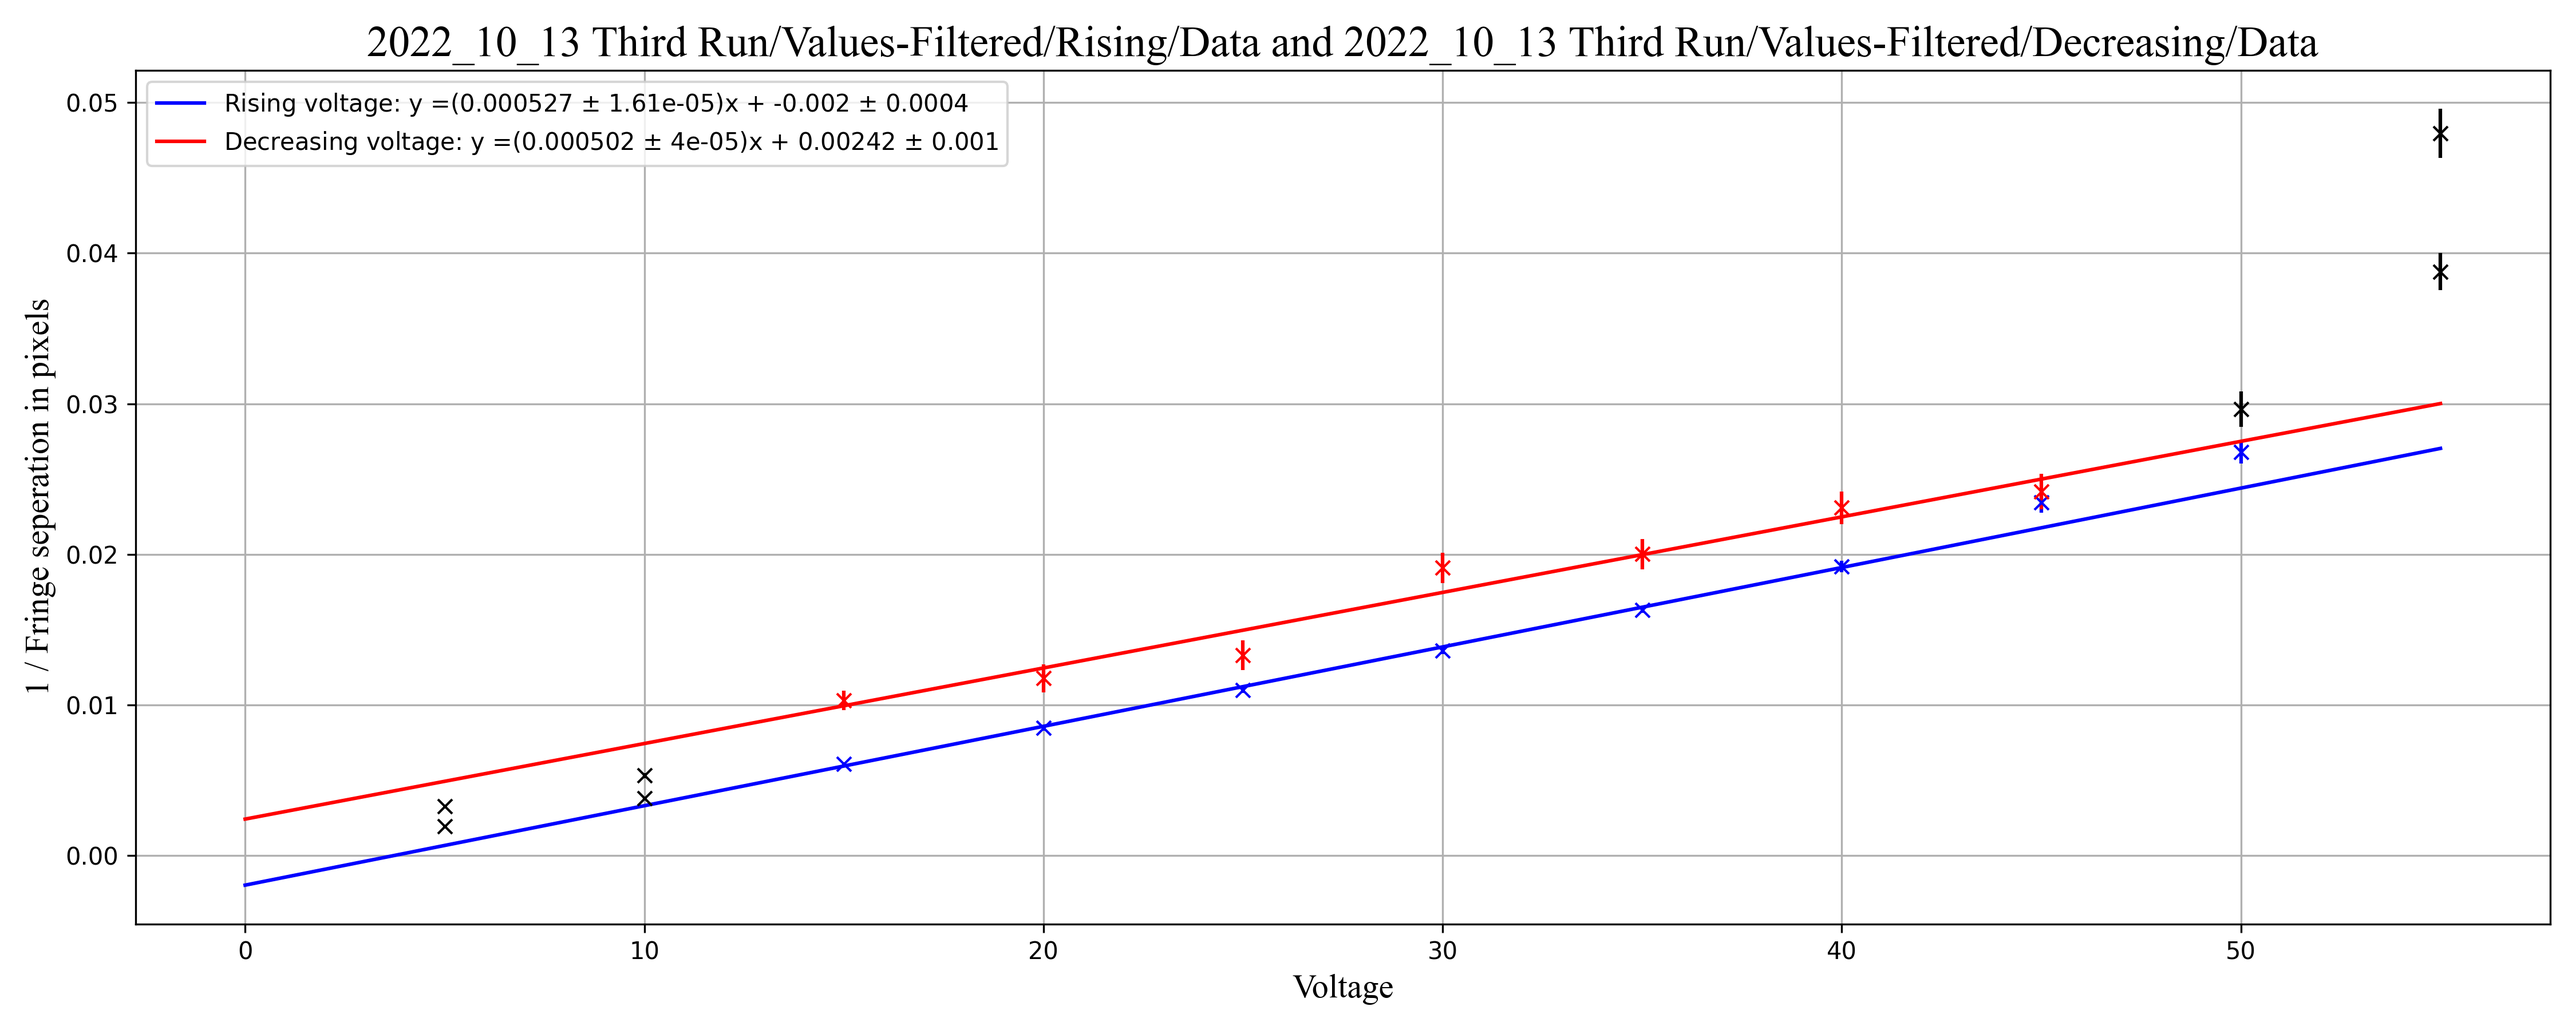
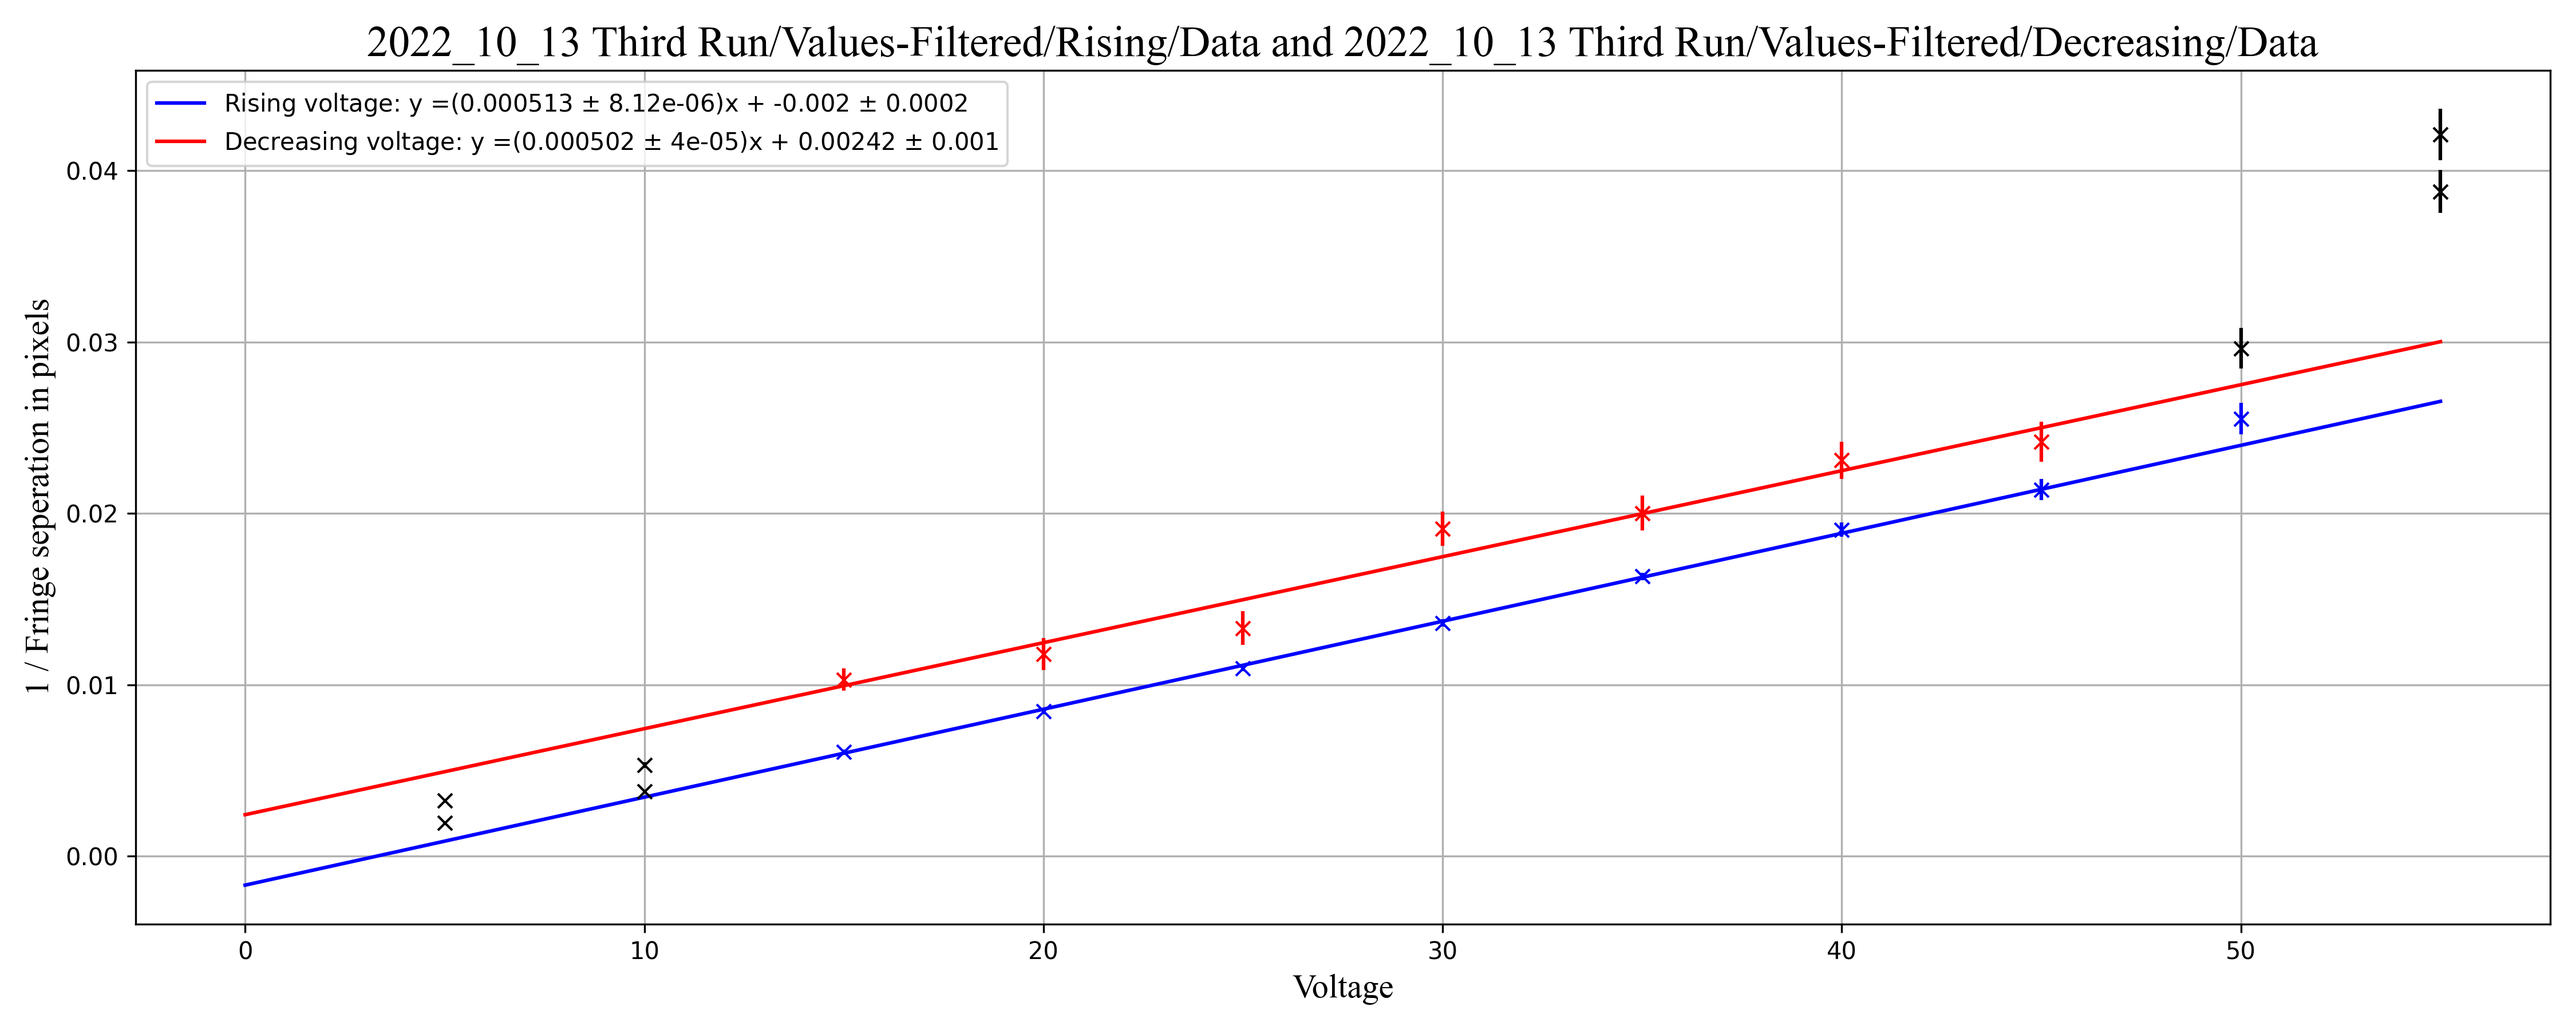
still miscalulating peak averages since finding new peaks

diff --git a/TVHolography.py b/TVHolography.py
@@ -11,7 +11,7 @@ import copy
 
 from Parameters import SAVGOL_FILTER_PARAMETERS_1,\
         SAVGOL_FILTER_PARAMETERS_2, PEAK_PROMINENCE
-from Functions import read_data, find_peaks,\
+from Functions import extract_index, read_data, find_peaks,\
         filter_peaks, find_linear_parameters,\
         fit_gaussian, optimize_savgol, red_chi_square
 
@@ -22,15 +22,6 @@ SAVE_FOLDER_2 = "2022_10_13 Third Run/Values-Filtered/Decreasing/Results/"
 SAVE_FOLDER_AVERAGES = "2022_10_13 Third Run/Values-Filtered/Comparison/"
 X_VARIABLE = "Voltage"
 Y_VARIABLE = 'Grey Value (Intensity)'
-
-def Extract(lst, i):
-    result = []
-    try:
-        for item in lst:
-            result.append(item[i])
-        return result
-    except IndexError:
-        return None
 
 def draw_plot(title, data, savgol_parameter, filename,
               save_folder, peak_prominence, direction):
@@ -49,7 +40,8 @@ def draw_plot(title, data, savgol_parameter, filename,
     axs.plot(data[:, 0], data[:, 1], 'k')
     
 
-    best_savgol_parameters = optimize_savgol(data[1000:2750], savgol_parameter, peak_prominence, axs)
+    best_savgol_parameters = optimize_savgol(data[1000:2750], savgol_parameter,
+                                             peak_prominence, axs)
     print(best_savgol_parameters)
 
     total_x_peak_data = []
@@ -73,18 +65,44 @@ def draw_plot(title, data, savgol_parameter, filename,
     peak_y_sigmas = []
     peak_y_range = []
 
-    for peak_index in range(0, len(total_x_peak_data[0])):
-        extracted = Extract(total_x_peak_data, peak_index)
-        if extracted != None:
-            peak_x_averages.append(np.mean(extracted))
-            peak_x_sigmas.append(np.std(extracted))
-            peak_x_range.append((np.max(extracted) - np.min(extracted)) / 2)
-    for peak_index in range(0, len(total_y_peak_data[0])):
-        extracted = Extract(total_y_peak_data, peak_index)
-        if extracted != None:
-            peak_y_averages.append(np.mean(extracted))
-            peak_y_sigmas.append(np.std(extracted))
-            peak_y_range.append((np.max(extracted) - np.min(extracted)) / 2)
+    total_x_peak_data_filtered = np.zeros((0, len(best_savgol_parameters)))
+    total_y_peak_data_filtered = np.zeros((0, len(best_savgol_parameters)))
+
+    #filter out additional peaks found from different savgol parameters
+    for i in range(len(total_x_peak_data[0])):
+        while True:
+            check = 0
+            try:
+                x_values = [item[i] for item in total_x_peak_data]
+            except IndexError:
+                break
+            y_values = [item[i] for item in total_y_peak_data]
+            mean = np.mean(x_values)
+            std = np.std(x_values)
+            for j, x in enumerate(x_values):
+                if x > (mean + 3 * std) or x < (mean - 3 * std):
+                    x_values.pop(j)
+                    y_values.pop(j)
+                    break
+                else:
+                    check += 1
+            if check==len(best_savgol_parameters):
+                total_x_peak_data_filtered = np.vstack((total_x_peak_data_filtered
+                                                        ,x_values))
+                total_y_peak_data_filtered = np.vstack((total_y_peak_data_filtered
+                                                        ,y_values))
+                break
+
+
+    for peak_x in total_x_peak_data_filtered:
+        peak_x_averages.append(np.mean(peak_x))
+        peak_x_sigmas.append(np.std(peak_x))
+        peak_x_range.append((np.max(peak_x) - np.min(peak_x)) / 2)
+    for peak_y in total_y_peak_data_filtered:
+        peak_y_averages.append(np.mean(peak_y))
+        peak_y_sigmas.append(np.std(peak_y))
+        peak_y_range.append((np.max(peak_y) - np.min(peak_y)) / 2)
+    
 
     axs.errorbar(peak_x_averages, peak_y_averages, xerr = peak_x_range, yerr=peak_y_sigmas, fmt='bx')
 
@@ -96,8 +114,6 @@ def draw_plot(title, data, savgol_parameter, filename,
     # if len(filtered_peaks) > 3 or len(filtered_troughs) > 3:
     #     fit_gaussian(filtered_peaks, filtered_data[filtered_peaks], axs)
     #     fit_gaussian(filtered_troughs, filtered_data[filtered_troughs], axs)
-
-    # analysis with different fringe spacings
 
     axs.grid()
 

diff --git a/Functions.py b/Functions.py
@@ -78,7 +78,8 @@ def fit_gaussian(x_data, y_data, axis):
     # uncertainty = np.sqrt(np.diagonal(cov))
 
     axis.plot(np.linspace(np.min(x_data), np.max(x_data)),
-              gaussian_curve(np.linspace(np.min(x_data), np.max(x_data)), *param), 'g--')
+              gaussian_curve(np.linspace(np.min(x_data),
+              np.max(x_data)), *param), 'g--')
     return
 
 
@@ -126,11 +127,10 @@ def optimize_savgol(data, savgol_0, peak_prominence, axs):
         chi_lis = np.append(chi_lis, red_chi_square(data[:, 1], w))
         # abs_list = np.append(abs_list, np.sum(np.abs(data[:, 1] - w)))
         # axs.plot(data[:, 0], w)
-
-
-    # print(chi_lis)
-    # print(abs_list)
-    closest, closest_index = find_closest(chi_lis, chi_lis[np.where(range_values==find_nearest(range_values, savgol_0))], 5)
+    closest, closest_index = find_closest(chi_lis,
+                                          chi_lis[np.where(range_values
+                                          ==find_nearest(range_values, savgol_0))]
+                                          , 5)
     best_savgol = np.take(range_values, closest_index.astype(int))
 
     for savgol_param in best_savgol:
@@ -138,3 +138,13 @@ def optimize_savgol(data, savgol_0, peak_prominence, axs):
         axs.plot(data[:, 0], best_data)
 
     return best_savgol
+
+
+def extract_index(lst, i):
+    result = []
+    try:
+        for item in lst:
+            result.append(item[i])
+        return result
+    except IndexError:
+        return None

diff --git a/Parameters.py b/Parameters.py
@@ -29,6 +29,6 @@ SAVGOL_FILTER_PARAMETERS_2 = {"00": 201, #savgol parameters for decreasing volta
                             "65": 11,
                             "70": 11,} 
 PEAK_PROMINENCE = {
-    "Rising": 0.2,
+    "Rising": 0.5,
     "Decreasing": 0.1
 }                        
